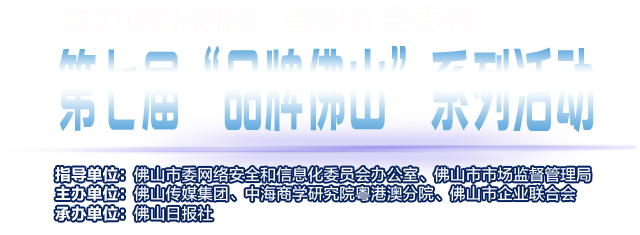
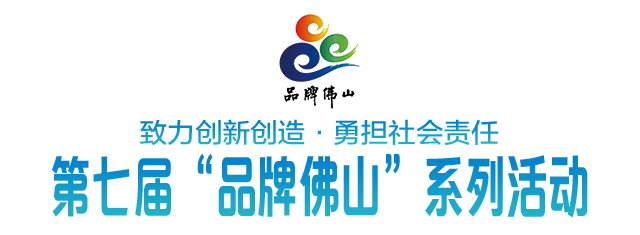
change pic px

diff --git a/index.html b/index.html
@@ -11,11 +11,15 @@
 </head>
 <body>
     <div class="bannnar">
-        <img src="img/title-2.png" id="pagebannar" class="fspPIC">
+        <img src="img/title.png" id="pagebannar" class="fspPIC">
     </div>
 
-    <div class="intro" data-toggle="modal" data-target="#introModal">
+    <div class="floatplugin" data-toggle="modal" data-target="#introModal">
         投<br/>票<br/>规<br/>则
+    </div>
+
+    <div class="floatplugin" id="reselect" data-toggle="modal" data-target="#checkinInfo">
+        重<br/>置
     </div>
 
     <div class="container">
@@ -61,9 +65,9 @@
                 <!-- End of tab页2 -->
             </div>
         </div>
-        <div class="row">
+<!--         <div class="row" >
             <button class="btn" id="reselect" data-toggle="modal" data-target="#checkinInfo" style="color:#223a5e;">重置选择</button>
-        </div>
+        </div> -->
 
     </div>
 

diff --git a/css/mainstyle.css b/css/mainstyle.css
@@ -210,14 +210,19 @@ input.fspCheckBox:focus{
 }
 
 
-.intro{
+.floatplugin{
     position: absolute;
     float: left;
     top: 35px;
     color: #fff;
     background-color: #223a5e;
-    padding-left: 5px;
+    padding-left: 3px;
     padding-right: 2px;
+    z-index:999;
+}
+
+#reselect{
+	top: 300px;
 }
 
 /*costume modal*/
@@ -257,13 +262,6 @@ input.fspCheckBox:focus{
     border-color: transparent;
     outline: none;
     font-size: 18px;
-}
-
-#reselect{
-	color: #ededed;
-    background-color: transparent;
-    border-color: transparent;
-    outline: none;
 }
 
 .list-group-item:first-child {
